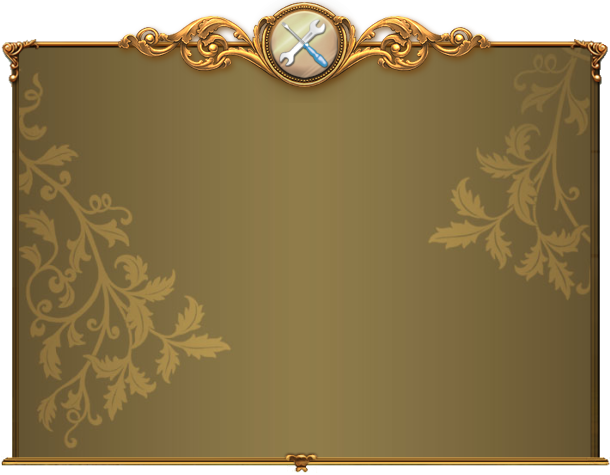
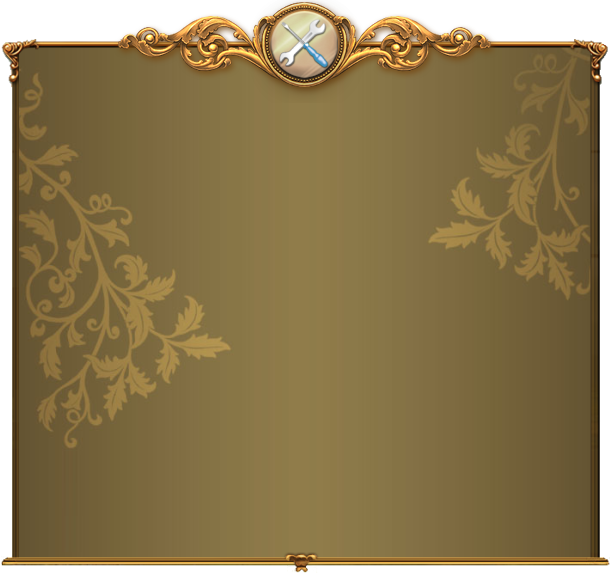
cipsoft migrated auth

Changed region(s): [[0.0, 0.0, 1.0, 1.0], [0.6852, 0.2358, 0.9656, 0.6189], [0.9033, 0.1768, 0.9656, 0.2947]]

diff --git a/client/settings.xaml b/client/settings.xaml
@@ -1,7 +1,7 @@
 <Window x:Class="client.settings"
         xmlns="http://schemas.microsoft.com/winfx/2006/xaml/presentation"
         xmlns:x="http://schemas.microsoft.com/winfx/2006/xaml"
-        Title="TSO Game Client" Icon="files/icon.ico" Height="500.561" Width="550" MouseLeftButtonDown="titleBar_MouseLeftButtonDown" WindowStartupLocation="CenterOwner" ResizeMode="NoResize" WindowStyle="None" AllowsTransparency="true">
+        Title="TSO Game Client" Icon="files/icon.ico" Height="523.761" Width="550" MouseLeftButtonDown="titleBar_MouseLeftButtonDown" WindowStartupLocation="CenterOwner" ResizeMode="NoResize" WindowStyle="None" AllowsTransparency="true">
     <Window.Background>
         <ImageBrush ImageSource="files/settings.png" />
     </Window.Background>
@@ -364,6 +364,8 @@
                 <TextBlock Height="23" HorizontalAlignment="Left" Margin="39,239,0,0" Foreground="#E9CB6F" FontWeight="Bold" Text="{Binding langDropboxRefresh, Mode=OneWay}" VerticalAlignment="Top" Width="195" Grid.ColumnSpan="2" />
                 <TextBlock Height="24" HorizontalAlignment="Left" Margin="38,324,0,-12" Foreground="#E9CB6F" FontWeight="Bold" Text="{Binding langTryFast, Mode=OneWay}" VerticalAlignment="Top" Width="370" Grid.ColumnSpan="2" />
                 <TextBlock Height="24" HorizontalAlignment="Left" Margin="38,353,0,-41" Foreground="#E9CB6F" FontWeight="Bold" Text="{Binding langUseCache, Mode=OneWay}" VerticalAlignment="Top" Width="370" Grid.ColumnSpan="2" />
+                <TextBlock Height="24" HorizontalAlignment="Left" Margin="38,382,0,-70" Foreground="#E9CB6F" FontWeight="Bold" Text="{Binding langMigrated, Mode=OneWay}" VerticalAlignment="Top" Width="370" Grid.ColumnSpan="2" />
+
                 <CheckBox Height="25" IsChecked="True" x:Name="tryFast" Margin="292,323,23.2,-12" Width="24" Grid.Column="1">
                     <CheckBox.Template>
                         <ControlTemplate TargetType="{x:Type CheckBox}">
@@ -406,12 +408,26 @@
                         </ControlTemplate>
                     </CheckBox.Template>
                 </CheckBox>
+                <CheckBox Height="25" IsChecked="True" x:Name="cipMigrated" Margin="291,381,24.2,-70" Width="24" Grid.Column="1">
+                    <CheckBox.Template>
+                        <ControlTemplate TargetType="{x:Type CheckBox}">
+                            <StackPanel Orientation="Horizontal">
+                                <Image x:Name="_image" Source="files/unchecked.png" />
+                            </StackPanel>
+                            <ControlTemplate.Triggers>
+                                <Trigger Property="IsChecked" Value="True">
+                                    <Setter Property="Source" TargetName="_image" Value="files/checked.png" />
+                                </Trigger>
+                            </ControlTemplate.Triggers>
+                        </ControlTemplate>
+                    </CheckBox.Template>
+                </CheckBox>
             </Grid>
         </GroupBox>
-        <Button BorderThickness="0" Content="{Binding langSave, Mode=OneWay}" Click="Button_Click" Height="23" HorizontalAlignment="Left" Margin="363,412,0,0" VerticalAlignment="Top" Width="77" />
-        <Button BorderThickness="0" Content="{Binding langExit, Mode=OneWay}" Click="Button_Click_1" Height="23" HorizontalAlignment="Left" Margin="445,412,0,0" VerticalAlignment="Top" Width="77" />
-        <Button BorderThickness="0" Content="{Binding langTestDropbox, Mode=OneWay}" Click="Button_Click_2" Height="23" HorizontalAlignment="Left" Margin="28,412,0,0" VerticalAlignment="Top" Width="135" />
-        <Button BorderThickness="0" Content="{Binding langAuthDropbox, Mode=OneWay}" Click="Button_Click_3" Height="23" HorizontalAlignment="Left" Margin="168,412,0,0" VerticalAlignment="Top" Width="135" />
+        <Button BorderThickness="0" Content="{Binding langSave, Mode=OneWay}" Click="Button_Click" Height="23" HorizontalAlignment="Left" Margin="363,436,0,0" VerticalAlignment="Top" Width="77" />
+        <Button BorderThickness="0" Content="{Binding langExit, Mode=OneWay}" Click="Button_Click_1" Height="23" HorizontalAlignment="Left" Margin="445,436,0,0" VerticalAlignment="Top" Width="77" />
+        <Button BorderThickness="0" Content="{Binding langTestDropbox, Mode=OneWay}" Click="Button_Click_2" Height="23" HorizontalAlignment="Left" Margin="28,436,0,0" VerticalAlignment="Top" Width="135" />
+        <Button BorderThickness="0" Content="{Binding langAuthDropbox, Mode=OneWay}" Click="Button_Click_3" Height="23" HorizontalAlignment="Left" Margin="168,436,0,0" VerticalAlignment="Top" Width="135" />
         <Button BorderThickness="0" Content="֎" ToolTip="Get auth code" Click="Button_Click_4" Height="29" HorizontalAlignment="Left" Margin="485,217,0,0" VerticalAlignment="Top" Width="34" FontSize="20" />
         <Image HorizontalAlignment="Left" Height="30" Margin="446,12,0,0" VerticalAlignment="Top" Width="31" Source="files/upload.png" Cursor="Hand" ToolTip="Export" MouseDown="export_MouseDown"/>
         <Image HorizontalAlignment="Left" Height="30" Margin="488,12,0,0" VerticalAlignment="Top" Width="31" Source="files/download.png" Cursor="Hand" ToolTip="Import" MouseDown="import_MouseDown"/>

diff --git a/client/login.xaml.cs b/client/login.xaml.cs
@@ -144,6 +144,94 @@ namespace client
             }));
             return;
         }
+        public void CipMigratedAuth()
+        {
+            try
+            {
+                PostSubmitter post;
+                string res;
+                CookieCollection _cookies = new CookieCollection();
+                if (attepts > 5)
+                {
+                    AddToRich(Servers.getTrans("nomoretry"));
+                    return;
+                }
+                AddToRich(Servers.getTrans("tryauth") + attepts++);
+                post = new PostSubmitter
+                {
+                    Url = string.Format("{0}{1}", Servers._servers[region].domain, Servers._servers[region].uplay.Replace("uplay", "login")),
+                    Type = PostSubmitter.PostTypeEnum.Post
+                };
+                post.PostItems.Add("name", username.Trim());
+                post.PostItems.Add("password", password.Trim());
+                res = post.Post(ref _cookies);
+                if (res.Contains("OKAY"))
+                {
+                    AddToRich(Servers.getTrans("authok"));
+                    post = new PostSubmitter
+                    {
+                        Url = string.Format("{0}{1}", Servers._servers[region].domain, Servers._servers[region].main),
+                        Type = PostSubmitter.PostTypeEnum.Post
+                    };
+                    post.PostItems.Add("start", "1");
+                    post.useBC = true;
+                    res = post.Post(ref _cookies);
+                    post = new PostSubmitter
+                    {
+                        Url = string.Format("{0}{1}", Servers._servers[region].domain, Servers._servers[region].play),
+                        Type = PostSubmitter.PostTypeEnum.Get
+                    };
+                    AddToRich(Servers.getTrans("getplay"));
+                    post.useBC = true;
+                    string token = post.Post(ref _cookies);
+                    if (!token.Contains("thisProgram") && !token.Contains("return \"lang"))
+                    {
+                        AddToRich(Servers.getTrans("cookieerr"));
+                        return;
+                    }
+                    if (!PrepareFlash(token, token.Contains("thisProgram")))
+                    {
+                        AddToRich(Servers.getTrans("paramserr"));
+                        if (token.StartsWith("https://"))
+                        {
+                            AddToRich("Redirect detected. Maintenance?");
+                        }
+                    }
+                    foreach (Cookie cook in _cookies)
+                    {
+                        if (cook.Name.Contains("SESS"))
+                        {
+                            Session = cook.Value;
+                            break;
+                        }
+                    }
+                    Cookies = _cookies;
+                    return;
+                } else
+                {
+                    if (res.Contains("Captcha incorrect") || res.Contains("Captcha required"))
+                    {
+                        AddToRich(Servers.getTrans("captchaerr"));
+                        return;
+                    }
+                    if (res.Contains("Login failed"))
+                    {
+                        AddToRich(Servers.getTrans("loginerr"));
+                        return;
+                    }
+                    AddToRich(Servers.getTrans("autherr") + Regex.Unescape(res));
+                }
+            }
+            catch (Exception e)
+            {
+                string msg = e.Message;
+                if (Main.debug)
+                    msg += e.StackTrace;
+                AddToRich(Servers.getTrans("autherr") + msg);
+            }
+            return;
+        }
+
         public void CipAuth()
         {
             try
@@ -350,7 +438,14 @@ namespace client
                     FastAuth();
                     return;
                 }
-                CipAuth();
+                if (_settings.cipMigrated)
+                {
+                    CipMigratedAuth();
+                }
+                else
+                {
+                    CipAuth();
+                }
             }
             catch (Exception e)
             {
@@ -358,7 +453,6 @@ namespace client
                 if (Main.debug)
                     msg += e.StackTrace;
                 AddToRich(Servers.getTrans("autherr") + msg);
-                MainAuth();
             }
             return;
         }

diff --git a/client/settings.xaml.cs b/client/settings.xaml.cs
@@ -41,6 +41,7 @@ namespace client
         public string langAuthDropbox { get { return Servers.getTrans("langAuthDropbox"); } set { } }
         public string langTryFast { get { return Servers.getTrans("langTryFast"); } set { } }
         public string langUseCache { get { return Servers.getTrans("langUseCache"); } set { } }
+        public string langMigrated { get { return Servers.getTrans("langMigrated"); } set { } }
         public string[] winSizes = new string[] { "", "maximized", "minimized", "fullscreen" };
         public string[] langs = new string[] { "", "de", "us", "en", "fr", "ru", "pl", "es", "nl", "cz", "pt", "it", "el", "ro", "cn" };
 
@@ -64,6 +65,7 @@ namespace client
             tsoFolderNearLauncher.IsChecked = setting.tsoFolderNearLauncher;
             tryFast.IsChecked = setting.tryFast;
             useCache.IsChecked = setting.useCache;
+            cipMigrated.IsChecked = setting.cipMigrated;
             if (!string.IsNullOrEmpty(setting.window))
             {
                 window_size.SelectedIndex = Array.IndexOf(winSizes, setting.window);
@@ -95,6 +97,7 @@ namespace client
             setting.window = winSizes[window_size.SelectedIndex];
             setting.lang = langs[game_lang_list.SelectedIndex];
             setting.tsoFolderNearLauncher = (bool)tsoFolderNearLauncher.IsChecked;
+            setting.cipMigrated = (bool)cipMigrated.IsChecked;
             this.DialogResult = true;
         }
 

diff --git a/client/Servers.cs b/client/Servers.cs
@@ -97,7 +97,8 @@ namespace client
                 { "langTestDropbox", "Проверка Dropbox" },
                 { "langAuthDropbox", "Авторизация Dropbox" },
                 { "langTryFast", "Пробовать быструю авторизацию" },
-                { "langUseCache", "Использовать локальный кеш" }
+                { "langUseCache", "Использовать локальный кеш" },
+                { "langMigrated", "Аккаунт перенесен в CipSoft" }
              }
             },
             { "en-uk", new Dictionary<string, string>() {
@@ -144,7 +145,8 @@ namespace client
                 { "langTestDropbox", "Dropbox test" },
                 { "langAuthDropbox", "Dropbox auth" },
                 { "langTryFast", "Try fastlogin first" },
-                { "langUseCache", "Use local cache" }
+                { "langUseCache", "Use local cache" },
+                { "langMigrated", "Account migrated to CipSoft" }
              }
             },
             { "fr-fr", new Dictionary<string, string>() {

diff --git a/client/Main.xaml.cs b/client/Main.xaml.cs
@@ -736,6 +736,7 @@ namespace client
         public bool x64 { get; set; } = false;
         public bool tryFast { get; set; } = false;
         public bool useCache { get; set; } = false;
+        public bool cipMigrated { get; set; } = false;
         public bool configNickname { get; set; } = false;
         public string username { get; set; } = string.Empty;
         public long accountId { get; set; } = 0;
